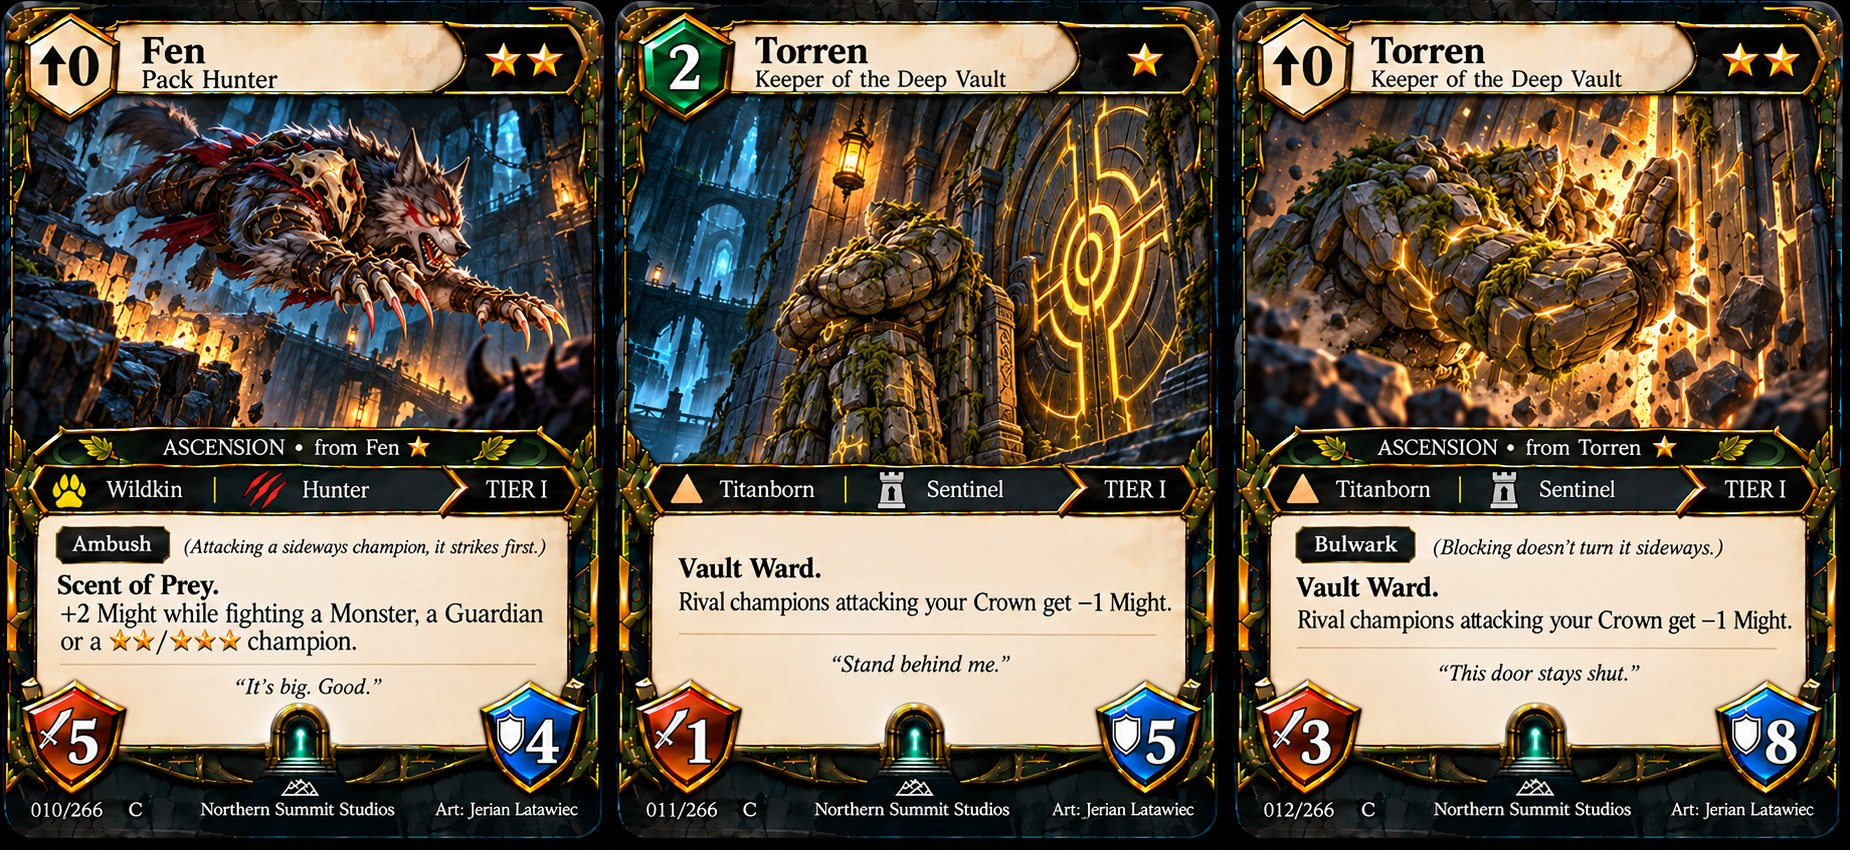
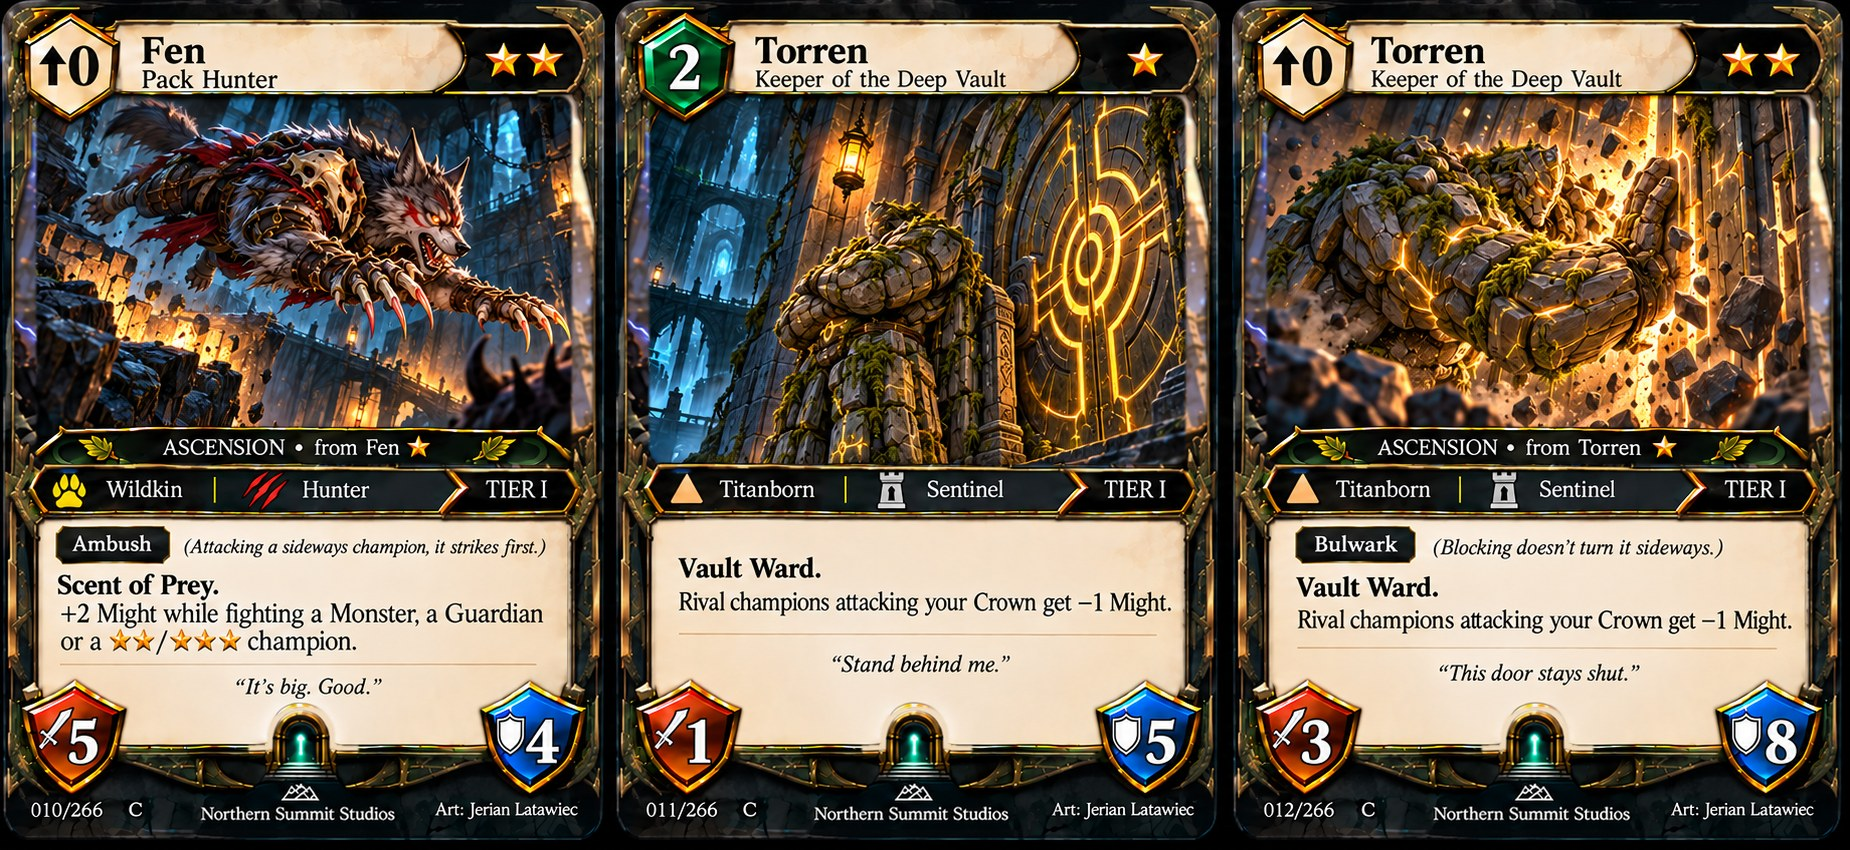
art(set2): Set 1 frame on every Set 2 card (Set 2 gateway kept); Season 1 = one frame

diff --git a/prototype-v0.2/tools/set2-emblem.py b/prototype-v0.2/tools/set2-emblem.py
@@ -200,7 +200,7 @@ def _lift_text(arr, w, h, text_bottom, lift):
                     out[d, x0_:x1_][m_] = np.median(px, axis=0)
     return Image.fromarray(out.astype("uint8"))
 
-def stamp_emblem(card, _lifted=False):
+def stamp_emblem(card, _lifted=False, paste=True):
     """Card with the reference gateway + mountain + studio name. Flavour text lines on the parchment are kept."""
     im = card.convert("RGB").copy()
     w, h = im.size
@@ -243,7 +243,7 @@ def stamp_emblem(card, _lifted=False):
     if text_bottom >= arch_top - 3 and not _lifted:
         lifted = _lift_text(arr, w, h, text_bottom, text_bottom - arch_top + 3)
         if lifted is not None:
-            return stamp_emblem(lifted, _lifted=True)
+            return stamp_emblem(lifted, _lifted=True, paste=paste)
     a_full = np.asarray(blk.split()[-1]).copy()
     # the reference gateway, mountain and studio name always go on, unchanged (owner rule 2026-10-15: "on all cards, no changes").
     # Only the reference's own gateway / dark band / logo / name are pasted (never its parchment, so no tone boxes).
@@ -252,6 +252,8 @@ def stamp_emblem(card, _lifted=False):
     sub[rbg] = 0
     cover = np.zeros((h, w), bool)
     cover[y0:y0 + H, x0:x0 + W] = sub > 128
+    if not paste:  # only clean the old gateway away (the frame brings its own)
+        cover[:] = False
     wx0, wx1 = int(w * 0.34), int(w * 0.66)
     textrows = np.zeros(h, bool)
     for r in rows:
@@ -295,6 +297,8 @@ def stamp_emblem(card, _lifted=False):
         feather[trow] = 0
         out = arr * (1 - feather) + out * feather
         im = Image.fromarray(out.astype("uint8"))
+    if not paste:
+        return im
     a_full = np.asarray(Image.fromarray(a_full.astype("uint8")).filter(ImageFilter.GaussianBlur(1.2))).copy()
     cl = credit_left(arr, w, h, fy)
     fade = np.clip((cl - 3 - (np.arange(a_full.shape[1]) + x)) / 6.0, 0, 1)  # never paint over the artist credit
@@ -413,6 +417,36 @@ def patch_stat(card, src_card, which):
     return im
 
 
+def frame_set2(card, kind):
+    """Set 2 on the Set 1 frame (owner rule 2026-10-16). The card is cleaned first (stamp_emblem), then any flavour line
+    that would touch the frame's gateway is lifted into spare parchment, then the Set 1 frame + Set 2 gateway go on."""
+    import importlib.util as _u
+    sp = _u.spec_from_file_location("uf", os.path.join(os.path.dirname(__file__), "unify-frame.py"))
+    uf = _u.module_from_spec(sp); sp.loader.exec_module(uf)
+    card = stamp_emblem(card, paste=False)
+    w, h = card.size
+    gate = np.asarray(uf._gateway_mask().resize((w, h))) > 40
+    gate = np.asarray(Image.fromarray((gate * 255).astype("uint8")).filter(ImageFilter.MaxFilter(5))) > 0
+    a = np.asarray(card).astype(int)
+    b = _beige(a)
+    near = np.asarray(Image.fromarray((b * 255).astype("uint8")).filter(ImageFilter.MaxFilter(5))) > 0
+    ink = near & ~b & (a.mean(axis=2) < 130) & ((a.max(axis=2) - a.min(axis=2)) < 70)  # letters on parchment only
+    ink[:int(h * 0.70)] = False
+    ink[int(h * 0.90):] = False
+    gcols = np.where(gate.any(axis=0))[0]
+    grows = np.where(gate.any(axis=1))[0]
+    left = ink[:, int(w * 0.12):max(int(w * 0.12), gcols.min() - 2)].any(axis=1)
+    right = ink[:, min(w, gcols.max() + 2):int(w * 0.88)].any(axis=1)
+    line = left & right  # a centred text line running across the gateway's columns
+    hit = np.array([r for r in np.where(line)[0] if grows.min() - 3 <= r <= grows.max()])
+    if len(hit) and hit.max() - grows.min() + 4 <= 24:
+        gtop = np.where(gate.any(axis=1))[0].min()
+        lifted = _lift_text(a, w, h, int(hit.max()), int(hit.max() - gtop + 4))
+        if lifted is not None:
+            card = lifted
+    return uf.unify(card, kind, set_no=2)
+
+
 def main():
     """Stamp every Set 2 sheet from its untouched original (copied once to Old/Card Sheets (original)),
     then refresh the repo previews in prototype-v0.2/card-art/set2. Safe to run again after new sheets arrive."""
@@ -424,9 +458,18 @@ def main():
     repo = os.path.join(os.path.dirname(__file__), "..", "card-art", "set2")
     os.makedirs(ORIGINALS, exist_ok=True)
     done = 0
+    import csv
+    KIND = {}
+    for r in csv.DictReader(open(os.path.join(os.path.dirname(__file__), "..", "master-card-list-set2.csv"), encoding="utf-8-sig")):
+        t = r["Card type"]
+        KIND[r["No."][3:]] = ("champion" if t in ("Champion", "Ascension", "Monster", "Guardian")
+                              else "spell" if t in ("Tactic", "Swift Tactic", "Scheme", "Edict") else None)
     for name in sorted(os.listdir(sheets)):
         if not (name.startswith("Cards ") and name.lower().endswith(".png")):
             continue
+        nums = re.findall(r"\d{3}|xxx", name.split(" ", 2)[1])
+        if len(nums) == 2 and "xxx" not in nums and int(nums[1]) - int(nums[0]) == 2:  # "049-051" = 049, 050, 051
+            nums = [nums[0], f"{int(nums[0]) + 1:03d}", nums[1]]
         orig = os.path.join(ORIGINALS, name)
         if not os.path.exists(orig):
             shutil.copy2(os.path.join(sheets, name), orig)
@@ -437,7 +480,12 @@ def main():
                 sname, si, which = STAT_PATCHES[(name, i)]
                 sim = Image.open(os.path.join(ORIGINALS, sname)).convert("RGB")
                 card = patch_stat(card, sim.crop(_cards(sim)[si]), which)
-            im.paste(stamp_rim(stamp_emblem(card)), b[:2])
+            no = nums[i] if i < len(nums) else None
+            kind = KIND.get(no)
+            if kind:  # Set 1's frame with the Set 2 gateway (owner rule 2026-10-16)
+                im.paste(frame_set2(card, kind), b[:2])
+            else:     # card types without a locked frame yet (Relics): previous treatment
+                im.paste(stamp_rim(stamp_emblem(card)), b[:2])
         if check:
             print("would stamp", name); continue
         dest = os.path.join(sheets, name)

diff --git a/prototype-v0.2/tools/unify-frame.py b/prototype-v0.2/tools/unify-frame.py
@@ -28,7 +28,7 @@ def _beige(a):
 REF_SPELL = "170"  # First Light: the shield-free bottom corners every spell and Edict shares
 
 
-def holes(kind="champion"):
+def holes(kind="champion", set_no=1):
     """Where the card's own contents show through (255) and where the reference frame is drawn (0).
     Coordinates are for a 744 x 1039 card; holes() scales with the card."""
     m = Image.new("L", (W, H), 0)
@@ -42,16 +42,55 @@ def holes(kind="champion"):
         d.rounded_rectangle((50, 646, 696, 930), radius=10, fill=255)                         # text box
         d.polygon([(18, 864), (88, 838), (158, 864), (152, 940), (88, 992), (24, 940)], fill=255)   # Might shield
         d.polygon([(586, 864), (656, 838), (726, 864), (720, 940), (656, 992), (592, 940)], fill=255)  # Guard shield
+    elif set_no == 2:  # Set 2 spells sit ~20 px higher than Set 1's (measured on 054 / 057 / 060)
+        d.rounded_rectangle((42, 118, 702, 574), radius=16, fill=255)                         # art window
+        d.rectangle((30, 572, 714, 656), fill=255)                                            # type band + trait bar
+        d.rounded_rectangle((40, 650, 704, 932), radius=10, fill=255)                         # text box
     else:
         d.rounded_rectangle((42, 118, 702, 578), radius=16, fill=255)                         # taller art window
         d.rectangle((30, 582, 714, 676), fill=255)                                            # type band + trait bar
         d.rounded_rectangle((44, 684, 700, 934), radius=10, fill=255)                         # text box
     d.rectangle((14, 986, 730, 1032), fill=255)                                               # footer line
-    return m.filter(ImageFilter.GaussianBlur(1.5))
+    if set_no == 2:
+        d.rectangle((148, 96, 660, 120), fill=255)  # room for a two-line name's "TACTIC" / "MONSTER" label
+        d.rectangle((236, 952, 508, 1036), fill=0)  # mountain + "Northern Summit Studios" always from the reference
+    m = m.filter(ImageFilter.GaussianBlur(1.5))
+    if set_no == 2:  # the Set 2 gateway always comes from the reference frame: cut out exactly its outline
+        m = Image.fromarray(np.minimum(np.asarray(m), 255 - np.asarray(_gateway_mask())))
+    return m
 
 
-def reference(kind, size):
+_GATE = None
+
+
+def _gateway_mask():
+    """The gateway arch + steps on the Set 2 reference (non-parchment pixels around x 300-444, y 850-990), grown 3 px."""
+    global _GATE
+    if _GATE is None:
+        a = np.asarray(Image.open(os.path.join(TEMPLATES, "frame-ref-set2-champion.png")).convert("RGB").resize((W, H))).astype(int)
+        # parchment = light and only mildly tinted; the arch's gold rim is saturated, so it counts as gateway
+        beige = (a.min(axis=2) > 150) & (a.max(axis=2) - a.min(axis=2) < 75)
+        g = np.zeros((H, W), bool)
+        g[820:990, 310:434] = ~beige[820:990, 310:434]
+        # keep only the connected blob that holds the keyhole (drops stray text / divider pixels of the reference)
+        seed = np.zeros_like(g)
+        seed[905:925, 365:380] = True
+        seed &= g
+        for _ in range(300):
+            nxt = (np.asarray(Image.fromarray((seed * 255).astype("uint8")).filter(ImageFilter.MaxFilter(3))) > 0) & g
+            if (nxt == seed).all():
+                break
+            seed = nxt
+        g = seed
+        _GATE = Image.fromarray((g * 255).astype("uint8")).filter(ImageFilter.MaxFilter(13)).filter(ImageFilter.GaussianBlur(1.2))
+    return _GATE
+
+
+def reference(kind, size, set_no=1):
     """Card 004's frame; for spells and Edicts its lower part (below the art) comes from First Light, which has no shields."""
+    if set_no == 2:  # Set 1's frame with the Set 2 gateway (owner rule 2026-10-16: Set 2 uses the Set 1 frame)
+        name = "frame-ref-set2-champion.png" if kind == "champion" else "frame-ref-set2-spell.png"
+        return Image.open(os.path.join(TEMPLATES, name)).convert("RGB").resize(size, Image.LANCZOS)
     ref = Image.open(os.path.join(TEMPLATES, "frame-ref-004-champion.png")).convert("RGB").resize((W, H), Image.LANCZOS)
     if kind != "champion":
         low = Image.open(os.path.join(TEMPLATES, "frame-ref-170-spell.png")).convert("RGB").resize((W, H), Image.LANCZOS)
@@ -60,11 +99,11 @@ def reference(kind, size):
     return ref.resize(size, Image.LANCZOS)
 
 
-def unify(card, kind="champion", ref=None):
+def unify(card, kind="champion", ref=None, set_no=1):
     """card at any size; returns the same size."""
     card = card.convert("RGB")
-    ref = ref or reference(kind, card.size)
-    m = np.asarray(holes(kind).resize(card.size, Image.LANCZOS)).astype(float)[..., None] / 255
+    ref = ref or reference(kind, card.size, set_no)
+    m = np.asarray(holes(kind, set_no).resize(card.size, Image.LANCZOS)).astype(float)[..., None] / 255
     out = np.asarray(ref).astype(float) * (1 - m) + np.asarray(card).astype(float) * m
     return Image.fromarray(out.astype("uint8"))
 

diff --git a/prototype-v0.2/card-template/CARD_TEMPLATE.md b/prototype-v0.2/card-template/CARD_TEMPLATE.md
@@ -173,3 +173,7 @@ Champion frame with: green cost gem; no stars, a small bronze three-claw-mark em
 ## One frame for all of Set 1 (owner rule 2026-10-16)
 
 Every Set 1 card 001–248 uses the exact frame of card 004 Kira Volt ★ (border, vines, panel edges, set crest). Spells and Edicts take the same frame with First Light's (170) shield-free lower corners. Applied by tools/unify-frame.py inside patch-sheet-letters.py, from the untouched originals in Set 1/Old; frozen references: card-template/frame-ref-004-champion.png and frame-ref-170-spell.png. Each card keeps its own gem, name, stars, art, bands, text and shields.
+
+## Set 2 uses the Set 1 frame (owner rule 2026-10-16)
+
+Sets 1 and 2 are Season 1 and share one frame: card 004's (champions, Monsters, Guardians) and First Light's lower corners (Tactics, Schemes, Edicts), with the Set 2 gateway + studio name in place of the Set 1 crest (frame-ref-set2-champion.png / frame-ref-set2-spell.png). tools/set2-emblem.py applies it to every Set 2 sheet from the originals (old gateway cleaned off, low flavour lines lifted clear of the gateway). Relics get it once their template is locked. Sets 3 and 4 (Season 2) will get a new frame.
